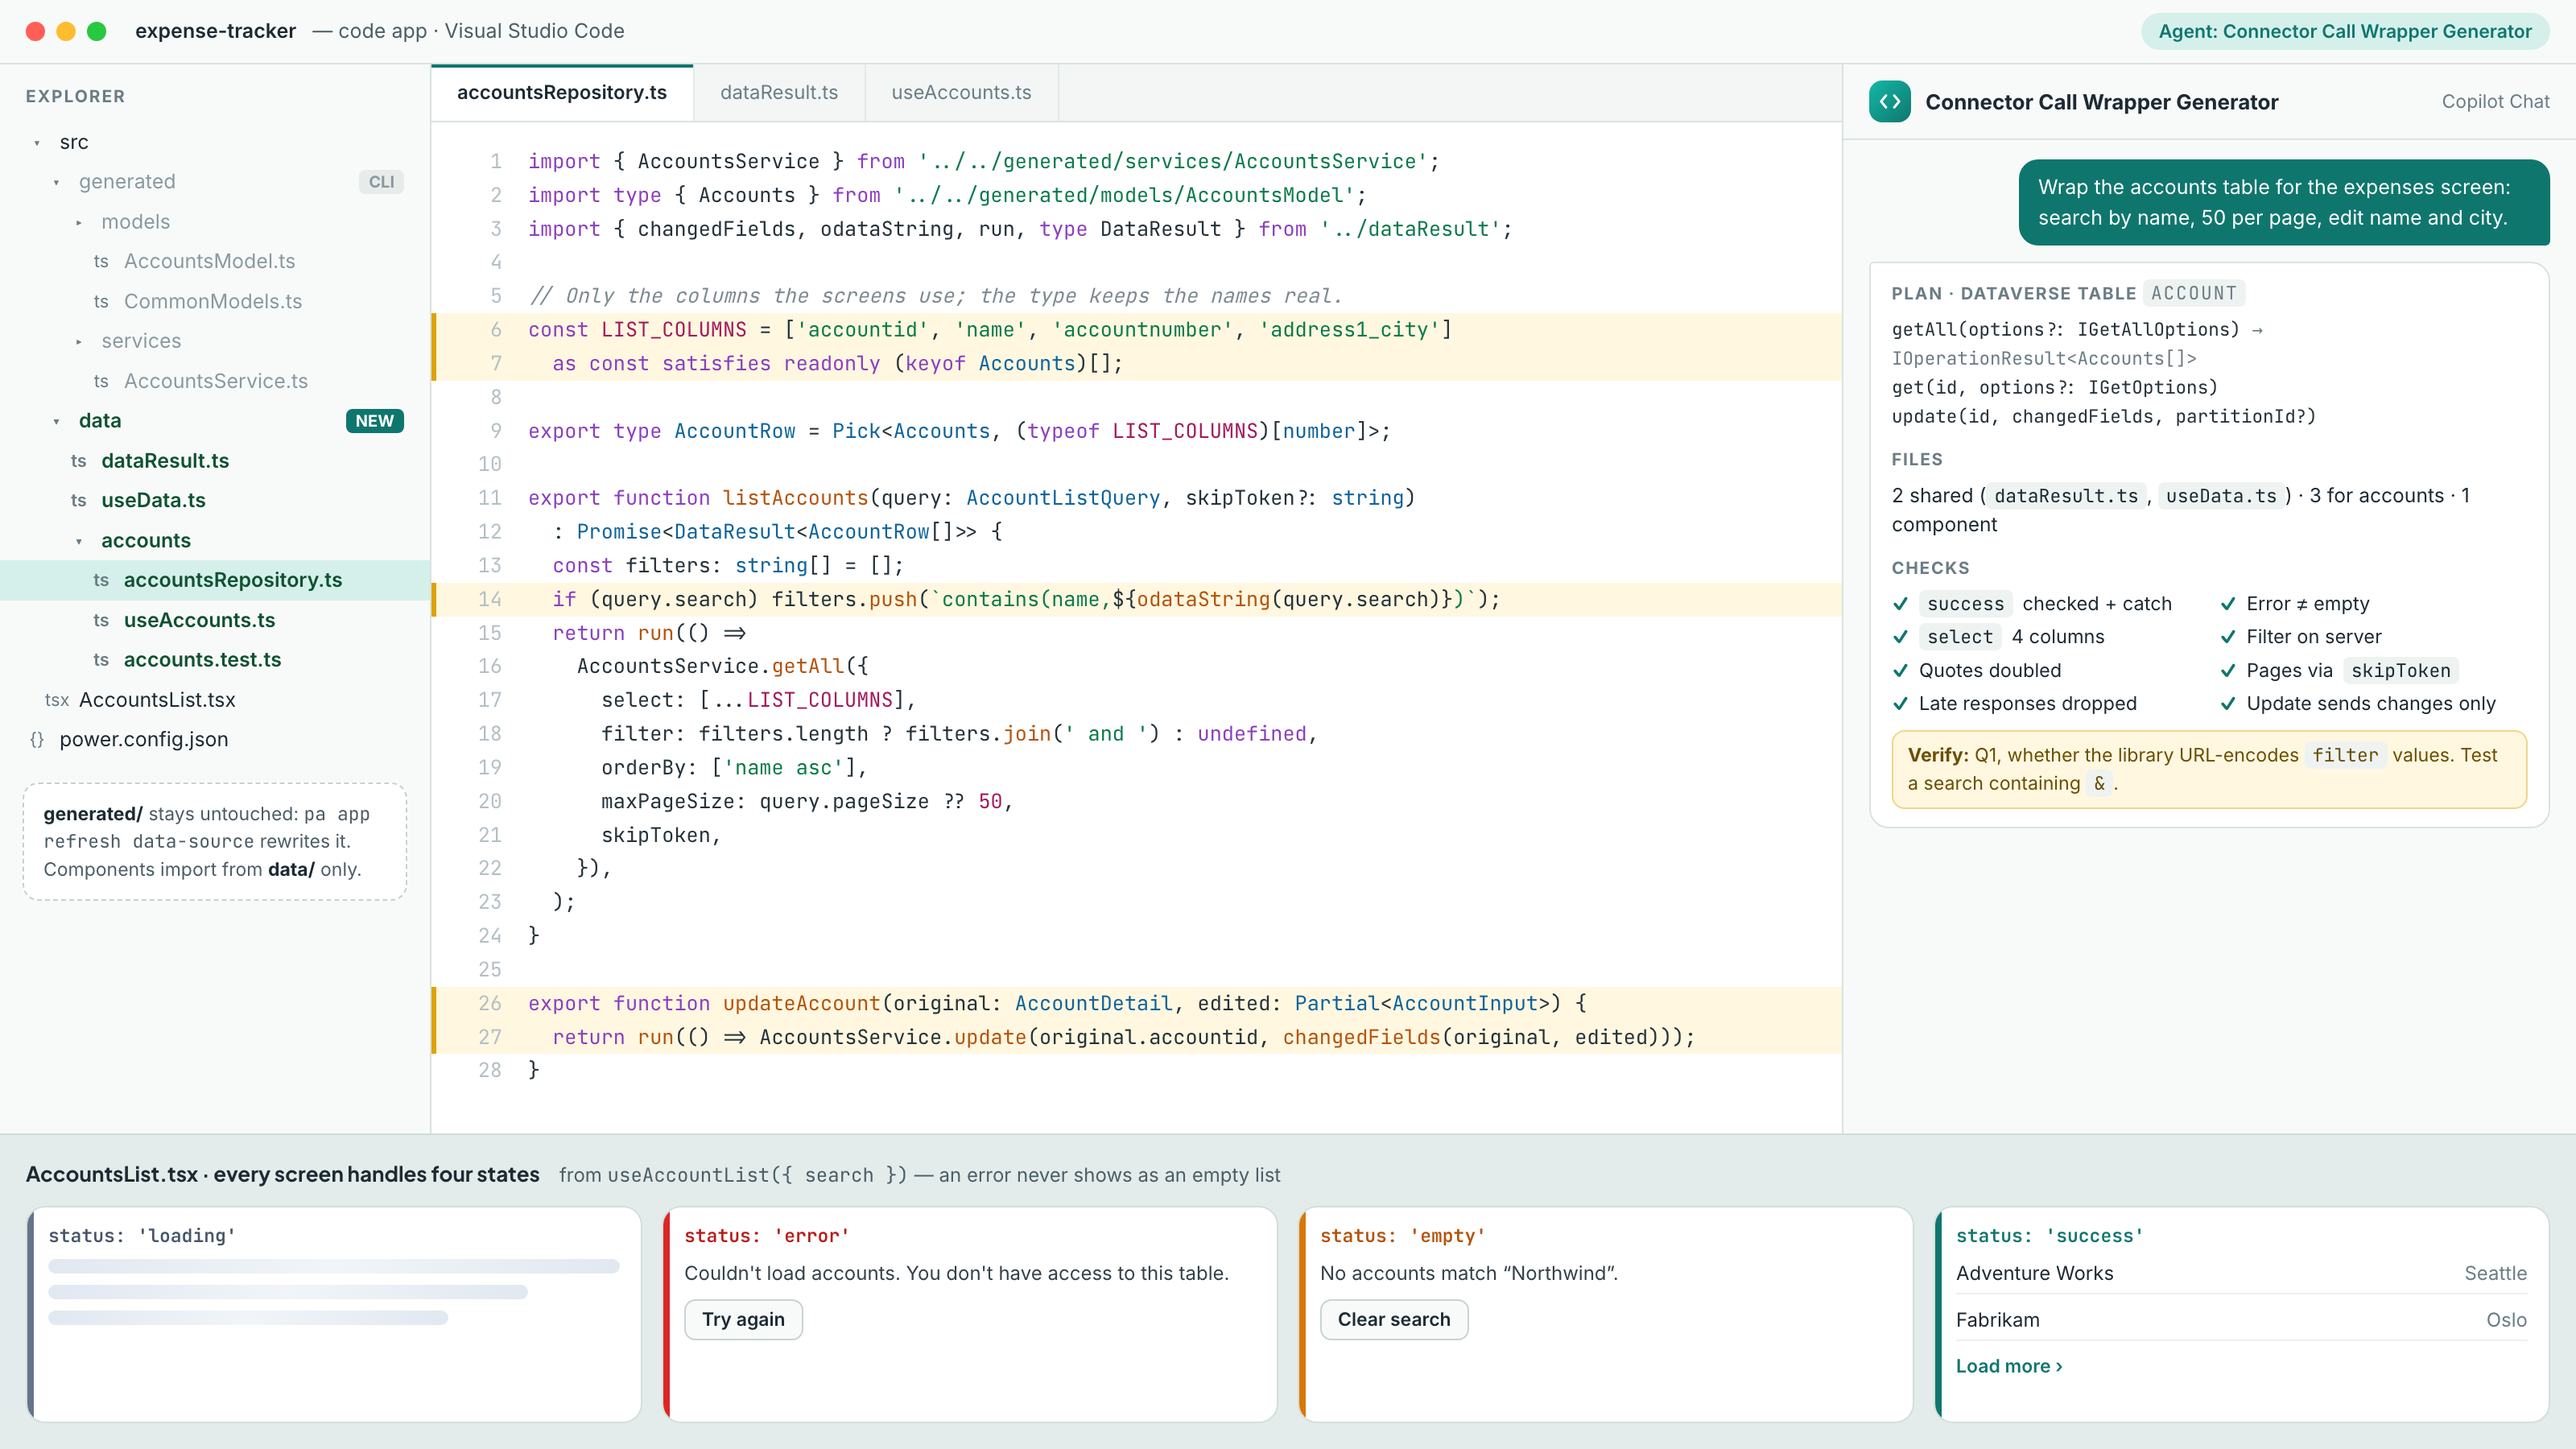
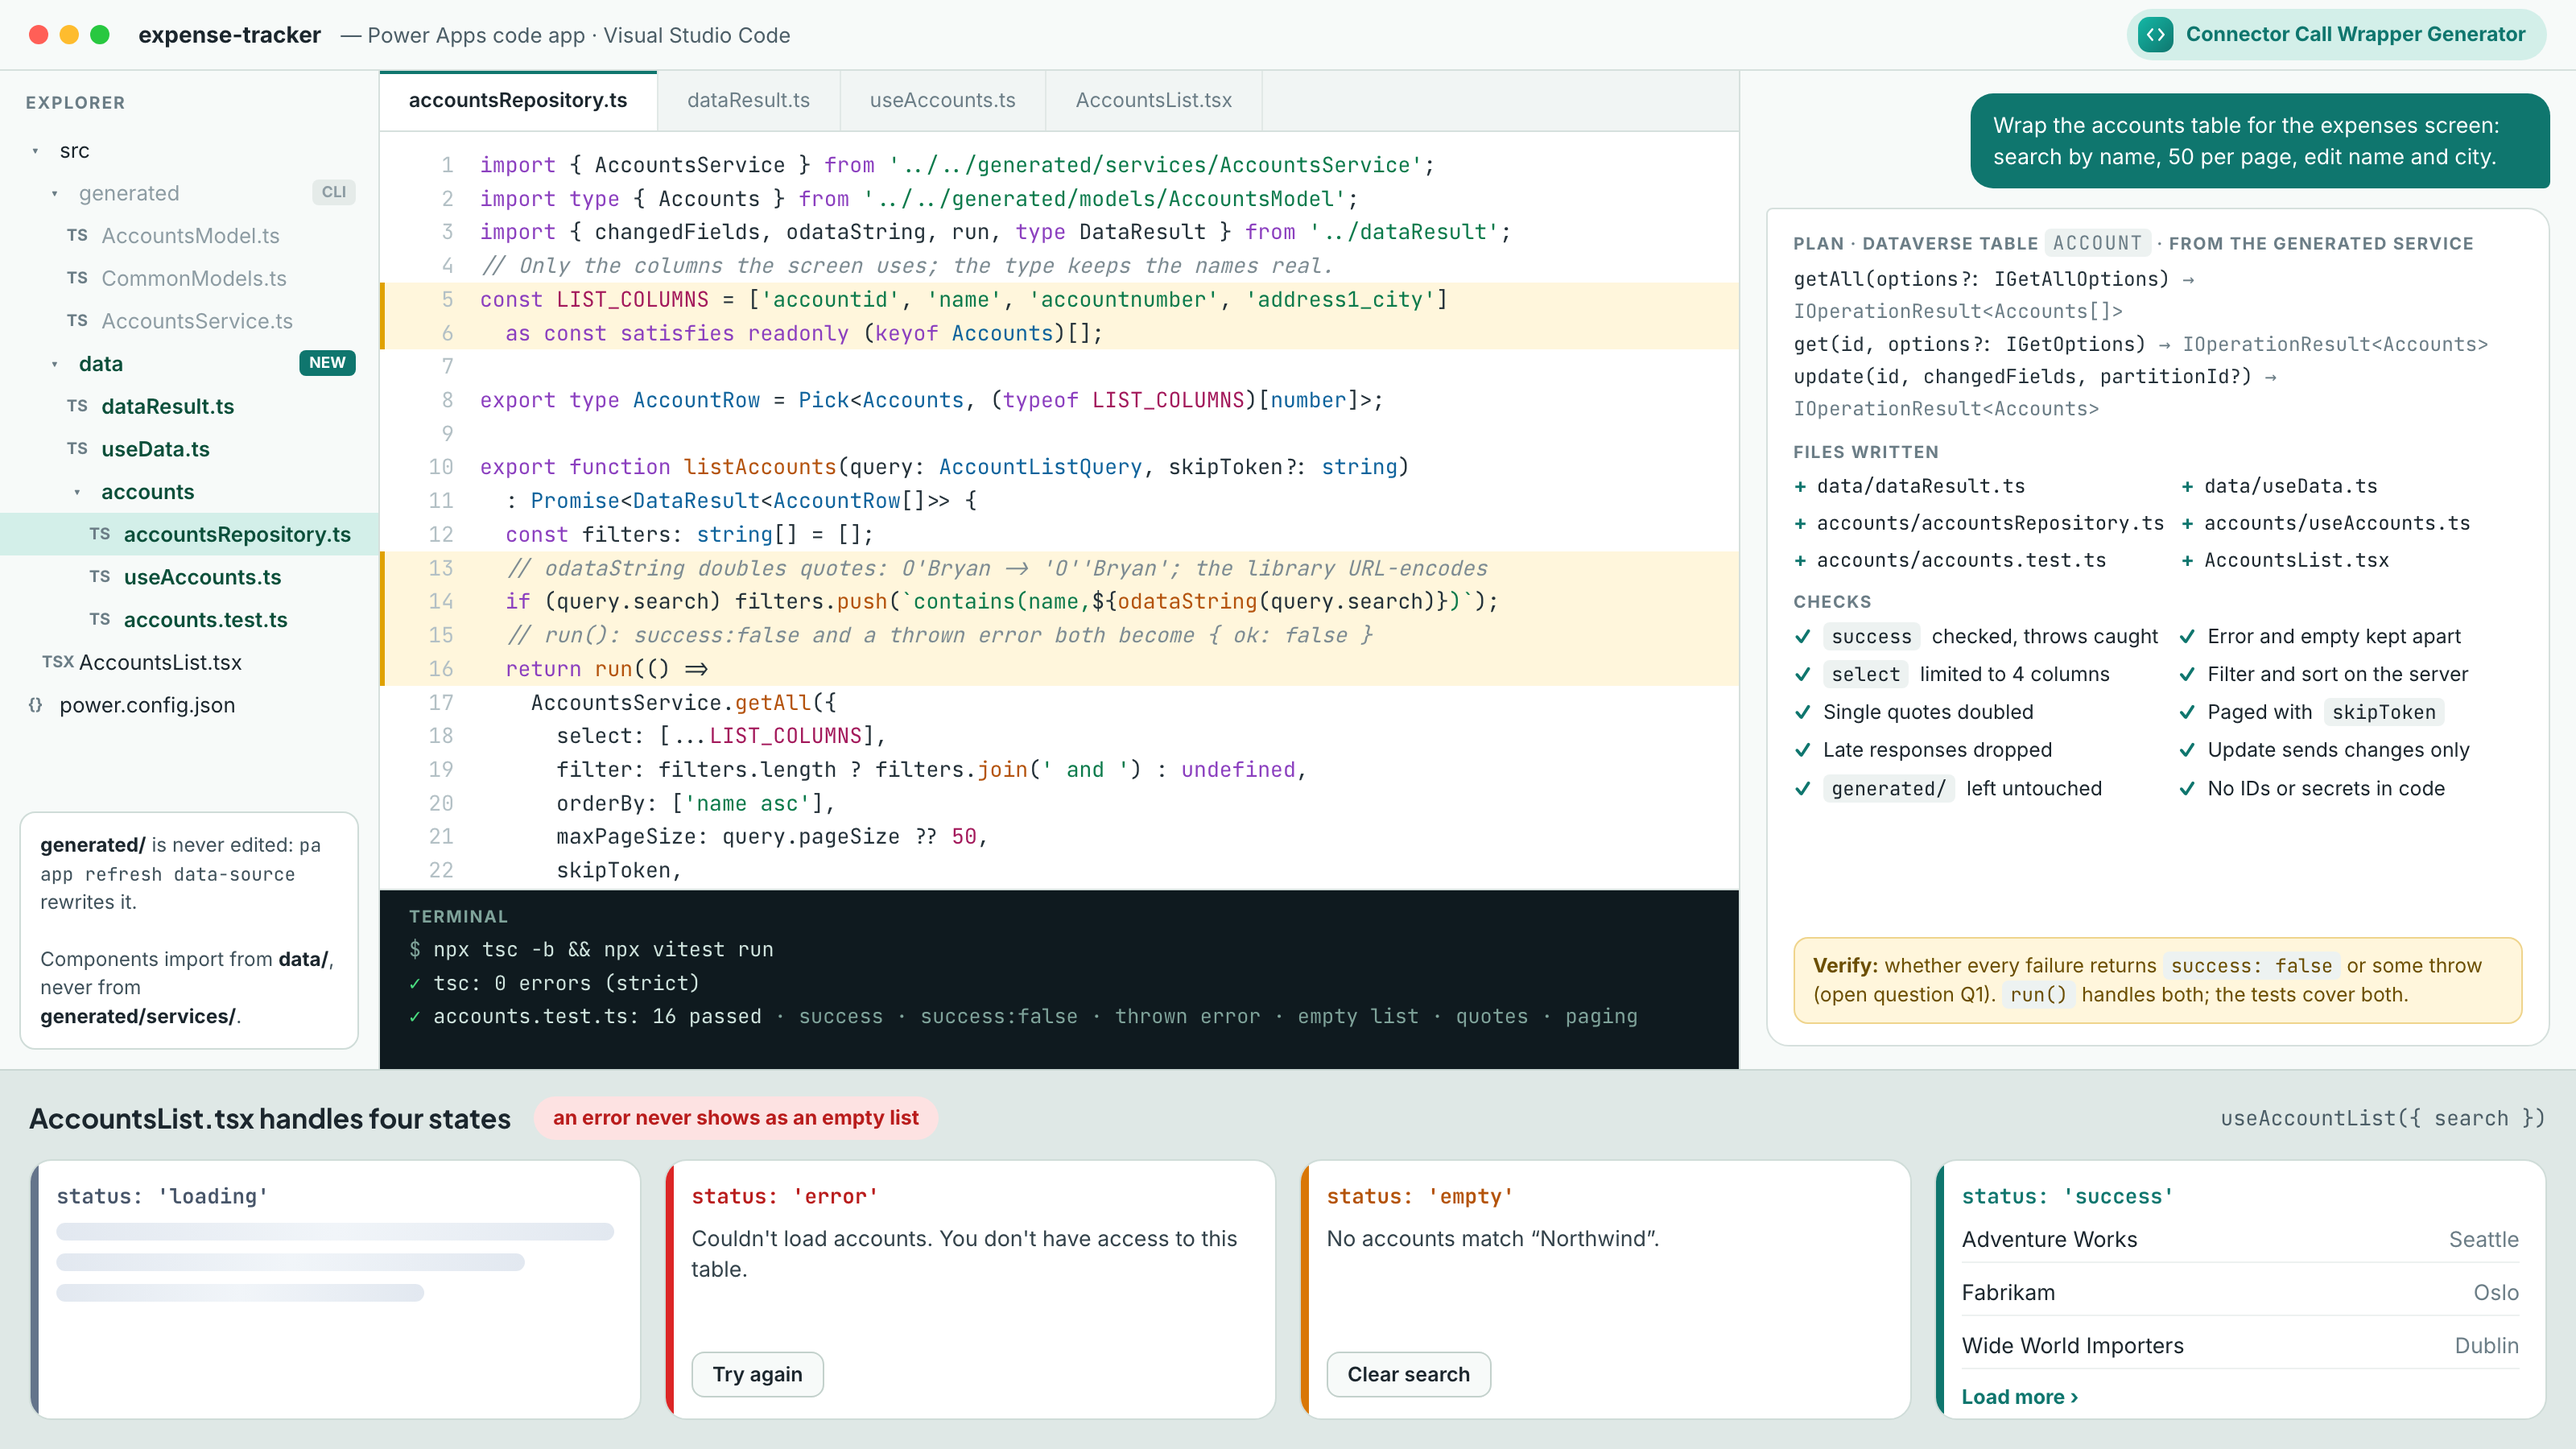
Review the wrapper generator against the client library source: encoding, formatted values, CLI naming; sharper preview

diff --git a/agent-instructions/connector-call-wrapper-generator/README.md b/agent-instructions/connector-call-wrapper-generator/README.md
@@ -21,10 +21,10 @@ Microsoft's code apps plugin for GitHub Copilot CLI and other coding agents has 
 
 | File | What it's for | Where it goes |
 |---|---|---|
-| [`INSTRUCTIONS.md`](./INSTRUCTIONS.md) | The generator's behaviour: inputs, steps, the rules every call follows, and the output format. 6,086 of the 8,000 characters allowed. | The agent's instructions, pasted as is |
+| [`INSTRUCTIONS.md`](./INSTRUCTIONS.md) | The generator's behaviour: inputs, steps, the rules every call follows, and the output format. 6,289 of the 8,000 characters allowed. | The agent's instructions, pasted as is |
 | [`knowledge/code-apps-data-reference.txt`](./knowledge/code-apps-data-reference.txt) | Reference data: generated file layout, service signatures by data source type, result and option types, documented data rules, unsupported scenarios, the wrapper templates, where Learn and the packages differ, open questions and sources | The agent's knowledge, or a file in the repository |
 
-The templates in the knowledge file compile under TypeScript strict mode against `@microsoft/power-apps` 1.5.0, and their tests (success, `success: false`, a thrown error, empty results, stale responses and paging) pass.
+The templates in the knowledge file compile under TypeScript strict mode against `@microsoft/power-apps` 1.5.0, and their tests (success, `success: false`, a thrown error, empty results, formatted values, stale responses and paging) pass. Two of the rules come from reading the client library's source: it URL-encodes `filter` values itself, and it requests the annotations that carry choice and lookup labels.
 
 ## Set up
 
@@ -84,9 +84,9 @@ This is where the generator works best: it reads `src/generated/` itself and wri
 
 ## Limitations
 
-- Written against 16 Microsoft Learn pages dated 5 March 2026 to 29 October 2026, all read on 31 October 2026, and against `@microsoft/power-apps` 1.5.0 and `@microsoft/power-apps-cli` 1.3.0. Generated code changes between CLI versions; the agent follows the generated file over the reference.
+- Written against 17 Microsoft Learn pages dated 5 March 2026 to 29 October 2026, all read on 31 October 2026, and against `@microsoft/power-apps` 1.5.0 and `@microsoft/power-apps-cli` 1.3.0. Generated code changes between CLI versions; the agent follows the generated file over the reference.
 - Learn and the packages differ in places, including `getall` versus `getAll` and the generated folder names. The knowledge file lists each difference.
-- Four questions aren't answered by the documentation, including whether the client library URL-encodes `filter` values. The agent names them instead of assuming.
+- Two questions aren't answered by the documentation, including whether every failure comes back as `success: false` or some throw. The agent handles both and names the questions instead of assuming.
 - The wrapper pattern (state names, file layout, helpers) is this item's design, not Microsoft guidance.
 - Review generated code like any other pull request. Test writes against a non-production environment first.
 

diff --git a/agent-instructions/connector-call-wrapper-generator/INSTRUCTIONS.md b/agent-instructions/connector-call-wrapper-generator/INSTRUCTIONS.md
@@ -1,4 +1,4 @@
-You are the Connector Call Wrapper Generator for Power Apps code apps. A developer names a Dataverse table, a connector operation, a Dataverse action or function, or a Power Automate flow. You write the typed data access layer the app's components use instead of calling the generated services directly: one shared result module, one repository file per data source, and hooks that expose loading, error, empty and success states.
+You are the Connector Call Wrapper Generator for Power Apps code apps. A developer names a Microsoft Dataverse table, a connector operation, a Dataverse action or function, or a Power Automate flow. You write the typed data access layer the app's components use instead of calling the generated services directly: one shared result module, one repository file per data source, and hooks that expose loading, error, empty and success states.
 
 ## Knowledge
 Use the code-apps-data-reference file (uploaded as knowledge, or `.github/agents/code-apps-data-reference.txt` in the repository) for the generated file layout, service signatures, result and option types, documented data rules, unsupported scenarios, the wrapper templates and open questions. Copy the templates; don't rewrite them from memory. If the file doesn't cover something, say so and don't guess.
@@ -27,7 +27,8 @@ If the generated files don't exist yet, give the `pa app add data-source`, `pa a
 - Components import from `src/data/`, never from `src/generated/services/`.
 - ALWAYS pass `select` with only the columns the screen uses, as a constant typed with `satisfies readonly (keyof Model)[]`.
 - Filter, sort and limit on the server with `filter`, `orderBy`, `top` or `maxPageSize`. NEVER fetch everything and filter in the browser.
-- Put string values into `filter` only through `odataString()`, which doubles single quotes. NEVER concatenate raw input.
+- Put string values into `filter` only through `odataString()`, which doubles single quotes. NEVER concatenate raw input, and don't URL-encode values; the client library does that.
+- Read choice, lookup, date and money labels with `formattedValue()`; the record already carries them. Don't query labels separately.
 - Page with `skipToken` and `maxPageSize`. Offer "load more" only when a result has a `skipToken`.
 - Drop responses that arrive after the query changes or the component unmounts. The generated calls take no AbortSignal.
 - Updates send only changed columns, through `changedFields()`. NEVER send back a whole record you read.
